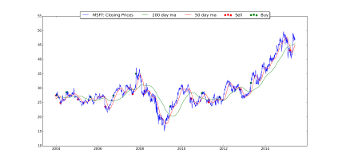
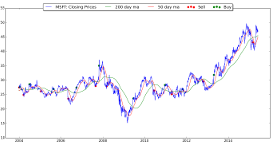
Added better figure

Changed region(s): [[0.0, 0.0, 0.9891, 1.0]]

diff --git a/ALR_Paper.tex b/ALR_Paper.tex
@@ -59,18 +59,18 @@
 { \huge \bfseries Methoden zur Börsenkursvorhersage}\\[0.4cm] % Title of your document
 \HRule \\[1.5cm]
 
+{\centering \emph{Autoren:}}
+\\
+
 \begin{minipage}{0.4\textwidth}
 \begin{flushleft} \large
-\emph{Author:}\\
-Marc \textsc{Misoch} \\
-David \textsc{Marquant} % Your name
+Marc \textsc{Misoch} 
 \end{flushleft}
 \end{minipage}
 ~
 \begin{minipage}{0.4\textwidth}
 \begin{flushright} \large
-\emph{Supervisor:} \\
-Dr. Jörn \textsc{Fischer} % Supervisor's Name
+David \textsc{Marquant} % Supervisor's Name
 \end{flushright}
 \end{minipage}\\[4cm]
 
@@ -212,11 +212,10 @@ Dieser Algorithmus ist anders als der Latest Trend Algorithmus nicht dafür geei
 
 Diesen Algorithmus implementierten wir zunächst auch in Java. Dann wurde uns aber bewusst, dass es viel anschaulicher wäre wenn man auch anhand eines plots sehen könnte was genau passiert. Da wir uns mit plotten in Python besser auskannten als in Java, schrieben wir den Algorithmus noch einmal in Python.
 Um diesen Algorithmus umzusetzen benötigt man zunächst einmal zwei verschiedene Berechnungen. Zum einen muss man den Moving Average der letzten 50 und 200 Tage berechnen. Falls der Moving Average der letzten 50 Tage über dem der letzten 200 Tage liegt soll man die Aktie zum aktuellen Preis kaufen. Fällt jedoch der Moving Average der letzten 200 Tage unter den der letzten 50 soll man die Aktie wieder verkaufen. Zum besseren Verständnis dient das folgende in Python gezeichnete Schaubild.
-\\TODO BESSERES BILD EINFÜGEN!!!!!!!!!!!!!!!!!!!
----------------------------------------------
+
 \begin{figure}[!h]  
   \begin{center}
-    \includegraphics[width=\textwidth]{MSFT_Zoomed}
+    \includegraphics[width=\textwidth]{MSFT_BIG}
   \end{center}
       \caption{Moving Average MSFT}
 \end{figure}
